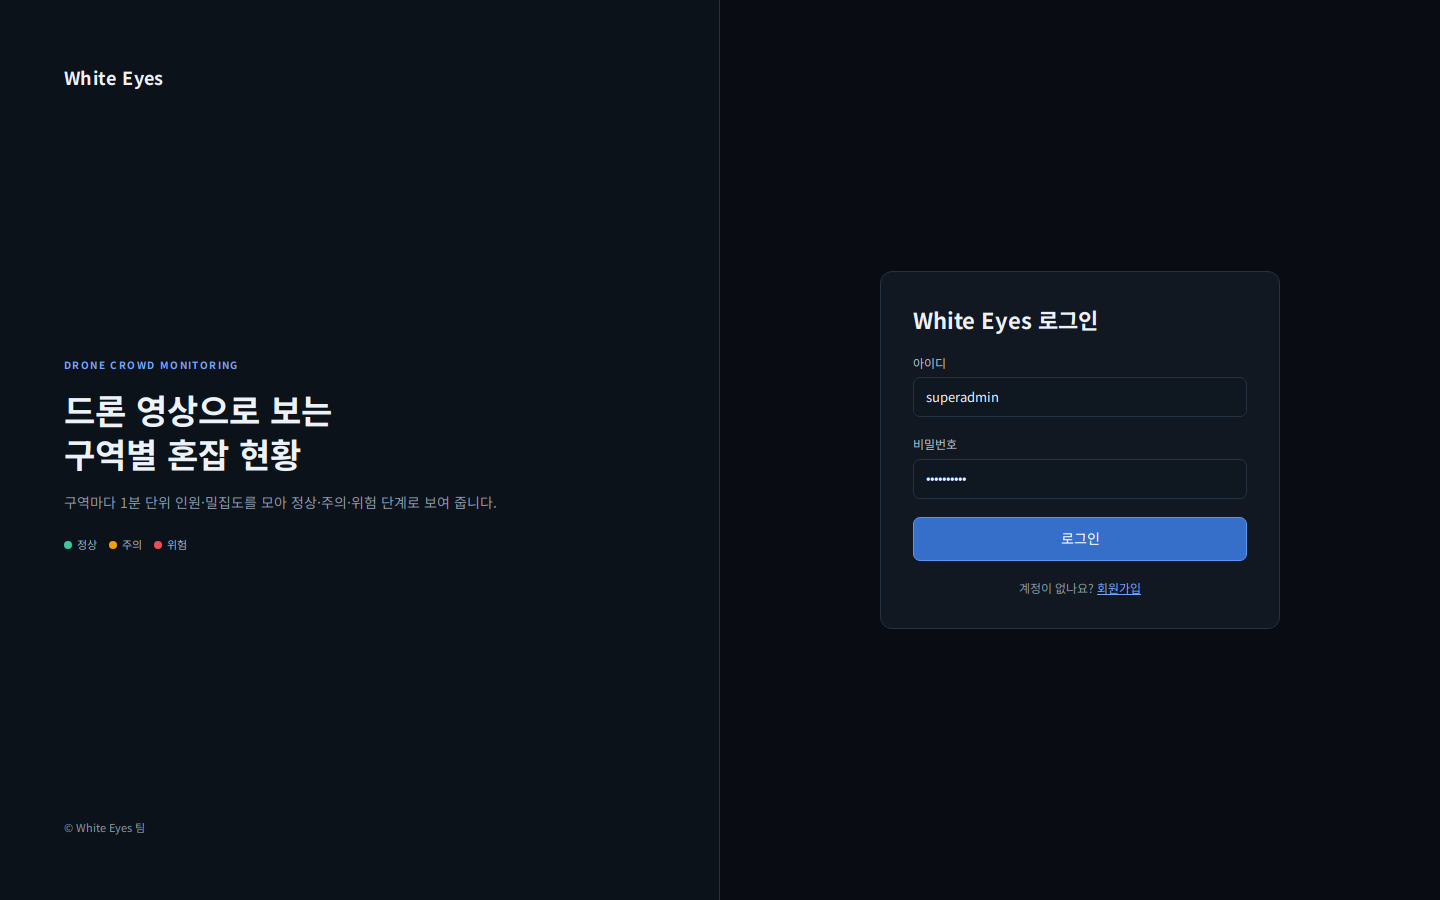
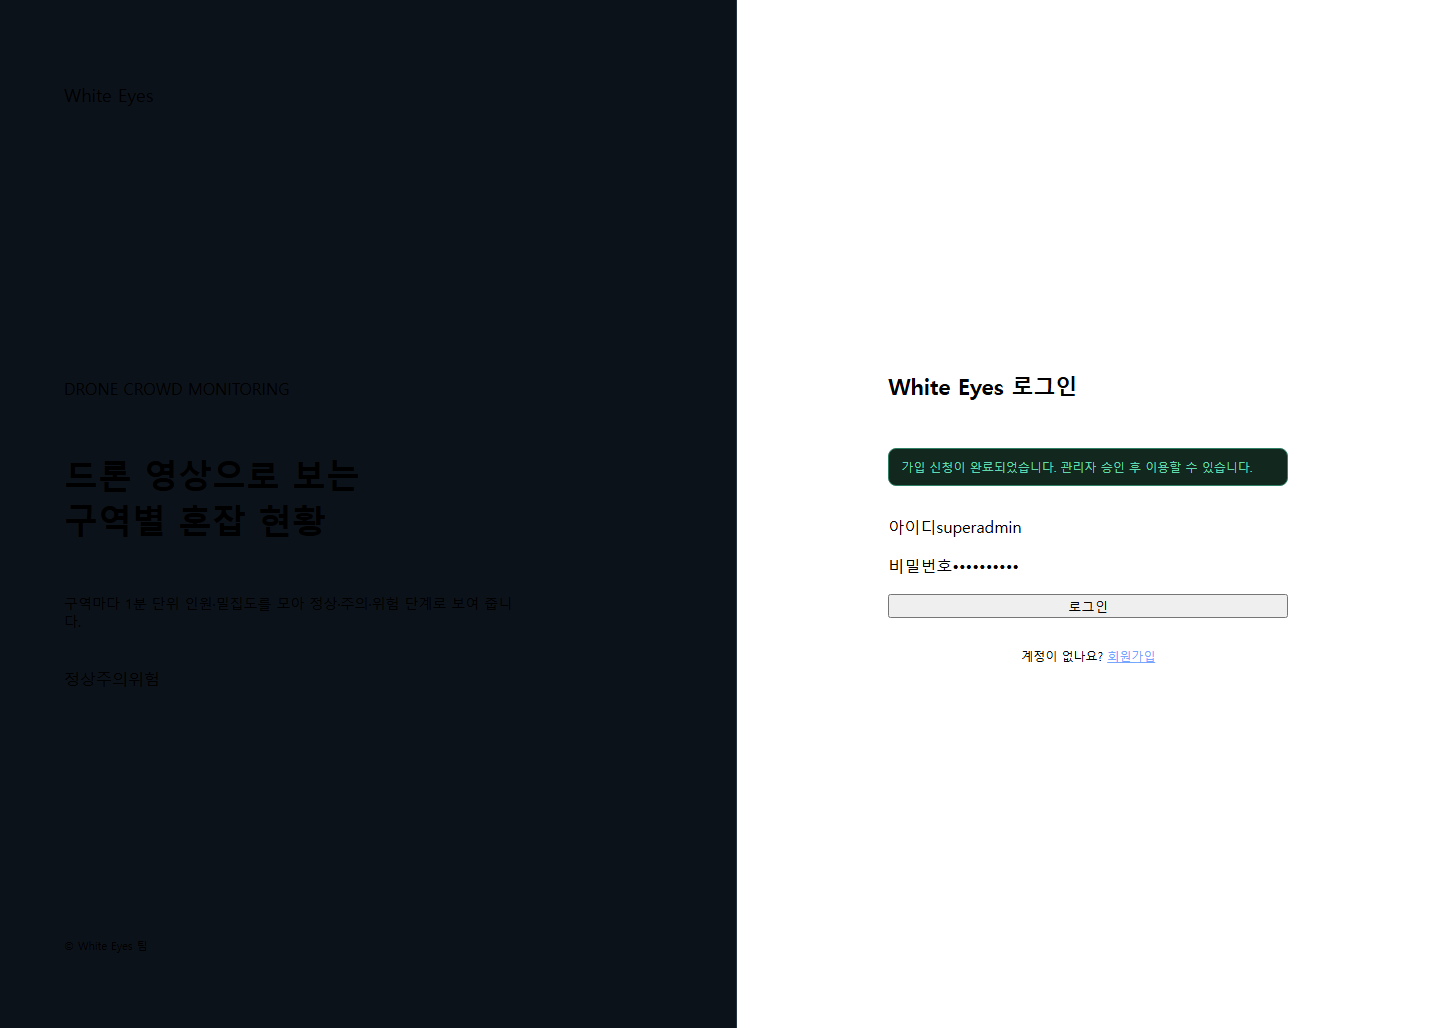
Merge pull request #95 from white-eyes1/docs/signup-done-notice-248
Kanabig 본인 PR이라 승인할 사람이 없어 bypass로 머지합니다.

diff --git a/design/src/Login.dc.html b/design/src/Login.dc.html
@@ -28,6 +28,9 @@
       <div>
         <h2 style="font-size: 22px">{{appName}} 로그인</h2>
       </div>
+      <sc-if value="{{showSignupDone}}" hint-placeholder-val="{{ false }}">
+        <p role="status" style="padding: 10px 12px; border: 1px solid #2f7f64; border-radius: 8px; background: #12281f; color: #63d7ae; font-size: 12px">가입 신청이 완료되었습니다. 관리자 승인 후 이용할 수 있습니다.</p>
+      </sc-if>
       <sc-if value="{{showError}}" hint-placeholder-val="{{ true }}">
         <p role="alert" style="padding: 10px 12px; border: 1px solid #6b2a31; border-radius: 8px; background: #2a151a; color: #ffb3b7; font-size: 12px">아이디 또는 비밀번호가 올바르지 않습니다.</p>
       </sc-if>
@@ -41,12 +44,12 @@
   </section>
 </div>
 </x-dc>
-<script type="text/x-dc" data-dc-script data-props='{"app":{"editor":"enum","options":["관리자 앱","사용자 앱"],"default":"관리자 앱"},"showError":{"editor":"boolean","default":true},"$preview":{"width":1440,"height":900}}'>
+<script type="text/x-dc" data-dc-script data-props='{"app":{"editor":"enum","options":["관리자 앱","사용자 앱"],"default":"관리자 앱"},"showError":{"editor":"boolean","default":true},"showSignupDone":{"editor":"boolean","default":false},"$preview":{"width":1440,"height":900}}'>
 class Component extends DCLogic {
   renderVals() {
     const app = this.props.app ?? '관리자 앱';
     const isUserApp = app === '사용자 앱';
-    return { appName: isUserApp ? 'White Eyes' : 'White Eyes 관리자', isUserApp, showError: this.props.showError ?? true };
+    return { appName: isUserApp ? 'White Eyes' : 'White Eyes 관리자', isUserApp, showError: this.props.showError ?? true, showSignupDone: this.props.showSignupDone ?? false };
   }
 }
 </script>

diff --git a/design/screens/SCR-C-001-login-user-app.html b/design/screens/SCR-C-001-login-user-app.html
@@ -26,6 +26,9 @@
         <h2 style="font-size: 22px">White Eyes 로그인</h2>
       </div>
       
+        <p role="status" style="padding: 10px 12px; border: 1px solid #2f7f64; border-radius: 8px; background: #12281f; color: #63d7ae; font-size: 12px">가입 신청이 완료되었습니다. 관리자 승인 후 이용할 수 있습니다.</p>
+      
+      
       <label class="field">아이디<span class="input">superadmin</span></label>
       <label class="field">비밀번호<span class="input">••••••••••</span></label>
       <button class="btn primary lg" type="button" style="width: 100%">로그인</button>

diff --git a/design/tools/export_design.py b/design/tools/export_design.py
@@ -15,7 +15,7 @@ SCREENS = [
     ("AdminHeader", "SCR-A-013-admin-header", {}, 1440),
     ("UserHeader", "SCR-U-004-user-header", {}, 1440),
     ("Login", "SCR-C-001-login", {}, 1440),
-    ("Login", "SCR-C-001-login-user-app", {"app": "사용자 앱", "showError": False}, 1440),
+    ("Login", "SCR-C-001-login-user-app", {"app": "사용자 앱", "showError": False, "showSignupDone": True}, 1440),
     ("Password", "SCR-C-002-password-forced", {}, 1440),
     ("Dashboard", "SCR-C-003-dashboard", {}, 1440),
     ("DashboardExpanded", "SCR-C-003-dashboard-deck-expanded", {}, 1440),

diff --git a/screens.md b/screens.md
@@ -12,6 +12,7 @@
 | 로그인 폼 | 아이디 | 입력 | 입력 | 최대 20자 | - | 빈 값이면 제출 안 함 | - | FNC-C-001 | auth-002 |
 | 로그인 폼 | 비밀번호 | 입력(password) | 입력·Enter | Enter로 제출 | - | 빈 값이면 제출 안 함 | - | FNC-C-001 | auth-002 |
 | 로그인 폼 | 로그인 | 버튼 | 클릭 | POST /login (CSRF 포함) | 성공 시 상태별 화면 이동 | 실패 시 폼 위에 오류 문구, 아이디 유지 | SCR-C-003 / SCR-U-002 / SCR-C-002(비밀번호 변경) | FNC-C-001 | auth-002<br>perm-001~005 |
+| 로그인 폼 | 가입 완료 안내 | 안내 박스 | 진입 | 사용자 앱에서 쿼리 signup=done으로 진입하면 폼 위에 표시. 그 외 진입에는 표시 안 함 | ‘가입 신청이 완료되었습니다. 관리자 승인 후 이용할 수 있습니다.’ | - | - | FNC-U-002 | auth-001<br>perm-002 |
 | 로그인 폼 | 회원가입 | 링크 | 클릭 | 사용자 앱에만 표시 | - | - | SCR-U-001 | FNC-U-002 | auth-001 |
 
 ## SCR-C-002 내 정보·비밀번호 변경
@@ -99,7 +100,7 @@
 | 화면 정보 | 주소 | 페이지 | 진입 | /signup | - | - | - | FNC-U-002 | auth-001 |
 | 가입 폼 | 아이디 + 중복 확인 | 입력 + 버튼 | 클릭 | GET /api/v1/signup/check-id. 아이디를 바꾸면 확인 상태 초기화 | ‘사용할 수 있습니다’ / ‘이미 사용 중입니다’ | 규칙 위반 문구 | - | FNC-U-001 | auth-001 |
 | 가입 폼 | 비밀번호·확인·이름·메일·연락처 | 입력 | 입력 | 입력값 규칙(설정·규약 시트) | - | 필드별 오류 문구 | - | FNC-U-002 | auth-001 |
-| 가입 폼 | 가입하기 | 버튼 | 클릭 | 중복 확인을 마쳐야 활성. POST /api/v1/signup | ‘가입 신청이 완료되었습니다. 관리자 승인 후 이용할 수 있습니다.’ | 409면 아이디 칸 오류 | SCR-C-001 | FNC-U-002 | auth-001<br>perm-002 |
+| 가입 폼 | 가입하기 | 버튼 | 클릭 | 중복 확인을 마쳐야 활성. POST /api/v1/signup. 성공하면 /login?signup=done으로 이동(브라우저 alert는 쓰지 않음) | 로그인 화면 폼 위 안내 박스에 ‘가입 신청이 완료되었습니다. 관리자 승인 후 이용할 수 있습니다.’ | 409면 아이디 칸 오류 | SCR-C-001 | FNC-U-002 | auth-001<br>perm-002 |
 
 ## SCR-U-002 승인 대기
 

diff --git a/design/README.md b/design/README.md
@@ -28,7 +28,7 @@ screens.md의 화면(SCR-…)마다 모양을 정한 시안이다. **동작·데
 | 공통 틀 | `_common-styleguide.html` | 1 | spring #136 |
 | SCR-A-013 관리자 공통 헤더 | `SCR-A-013-admin-header.html` | 1(배지·토스트 2) | spring #136 |
 | SCR-U-004 사용자 공통 헤더 | `SCR-U-004-user-header.html` | 2 | |
-| SCR-C-001 로그인 | `SCR-C-001-login.html`(관리자 앱, 오류 상태), `SCR-C-001-login-user-app.html`(사용자 앱) | 1·2 | |
+| SCR-C-001 로그인 | `SCR-C-001-login.html`(관리자 앱, 오류 상태), `SCR-C-001-login-user-app.html`(사용자 앱, 가입 완료 안내 상태) | 1·2 | |
 | SCR-C-002 비밀번호 변경(강제) | `SCR-C-002-password-forced.html` | 2 | spring #24 |
 | SCR-C-003 통계 메인 | `SCR-C-003-dashboard.html`(캠 패널 접힘), `SCR-C-003-dashboard-deck-expanded.html`(펼침), `SCR-C-003-stats-panel-all.html`(통계 패널 모두 펼침) | 1 + 2·3 | spring #139, #140 |
 | SCR-C-004 통계 그래프 | `SCR-C-004-graph.html` | 2·3 | |

diff --git a/features/user.md b/features/user.md
@@ -33,7 +33,7 @@
   1. 입력값 규칙 검사, 비밀번호 확인 일치
   2. 아이디 중복 재확인(동시 가입 대비 DB 유일 조건으로도 막음)
   3. user_account 저장: status=PENDING, 비밀번호 bcrypt
-  4. 가입 완료 안내 후 로그인 화면으로 이동
+  4. 로그인 화면(`/login?signup=done`)으로 이동해 가입 완료 안내를 폼 위에 표시(alert 안 씀)
 - **업무 규칙/검증**: 가입만으로는 서비스 이용 불가(관리자 승인 필요). 관리자 계정은 이 화면으로 만들 수 없음
 - **정상 결과**: 계정 생성(PENDING)
 - **예외 상황 및 처리**: 아이디 중복: 409 DUPLICATE_LOGIN_ID / 검증 실패: 400
